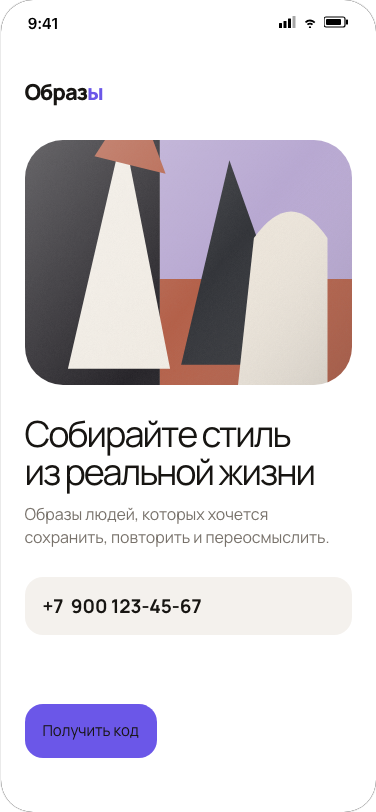
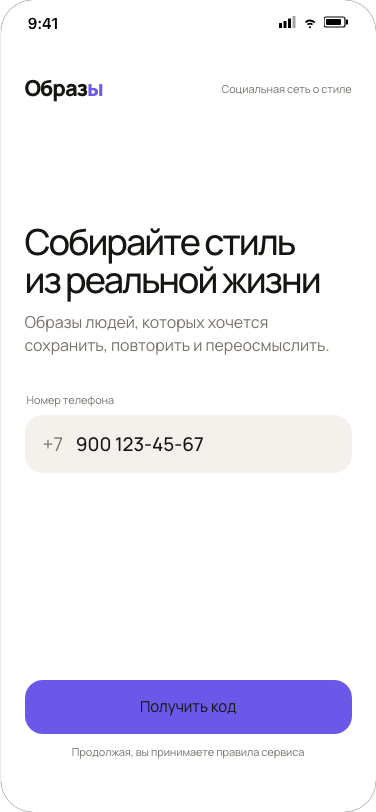
Simplify Looks login screen

diff --git a/platform/concepts/looks/styles.css b/platform/concepts/looks/styles.css
@@ -1,6 +1,6 @@
 :root{--lk-ink:#171512;--lk-muted:#77716a;--lk-soft:#f4f1ed;--lk-accent:#6b57e8;--lk-green:#4d7d61}
 .lk-editorial{padding:0 14px 105px}.lk-editorial-title{font:700 34px/1.05 Manrope;letter-spacing:-.055em;margin:8px 4px 18px}.lk-look{position:relative;height:430px;border-radius:28px;overflow:hidden;background:center/cover no-repeat;margin-bottom:14px}.lk-look.hero{background-image:url(assets/media/look-tailored.svg)}.lk-look.alt{height:270px;background-image:url(assets/media/look-color.svg)}.lk-look-meta{position:absolute;left:0;right:0;bottom:0;padding:70px 18px 18px;color:#fff;background:linear-gradient(transparent,rgba(12,10,16,.78))}.lk-look-meta h2{font-size:25px;letter-spacing:-.045em;margin:0}.lk-look-meta p{margin:5px 0 0;color:#eee}.lk-tag{position:absolute;padding:9px 11px;border-radius:14px;background:rgba(255,255,255,.92);font-size:11px;font-weight:750;box-shadow:0 6px 20px #1c172033}.lk-tag.one{left:14px;top:42%}.lk-tag.two{right:18px;top:65%}.lk-collections{display:grid;grid-template-columns:1.2fr .8fr;gap:10px;padding:0 16px 105px}.lk-collection{min-height:240px;border-radius:24px;background:center/cover no-repeat;position:relative;overflow:hidden}.lk-collection.tall{min-height:370px;background-image:url(assets/media/look-denim.svg)}.lk-collection.small{background-image:url(assets/media/look-knit.svg)}.lk-collection span{position:absolute;left:14px;bottom:14px;color:#fff;font-weight:800;font-size:17px}.lk-fashion-camera{height:360px;margin:0 16px;border-radius:28px;background:url(assets/media/look-denim.svg) center/cover;position:relative}.lk-fashion-camera:after{content:'Силуэт в кадре';position:absolute;left:16px;bottom:16px;padding:8px 11px;border-radius:12px;background:#fff;font-size:11px;font-weight:700}.lk-masonry{columns:2;column-gap:8px;margin-top:20px}.lk-tile{break-inside:avoid;height:190px;border-radius:16px;background:center/cover;margin-bottom:8px}.lk-tile:nth-child(1){height:250px;background-image:url(assets/media/look-tailored.svg)}.lk-tile:nth-child(2){background-image:url(assets/media/look-color.svg)}.lk-tile:nth-child(3){background-image:url(assets/media/look-denim.svg)}.lk-tile:nth-child(4){height:250px;background-image:url(assets/media/look-knit.svg)}
 .lk{background:#fff;color:var(--lk-ink);font-family:Manrope,-apple-system,sans-serif}.lk *{box-sizing:border-box}.lk button{appearance:none;border:0;font:inherit;color:inherit}.lk button:not(.lk-primary):not(.lk-secondary):not(.lk-card){background:transparent}.lk .body-scroll{scrollbar-width:none}.lk-safe{height:calc(var(--safe-top) + 8px);flex:none}.lk-head{height:54px;padding:0 18px;display:flex;align-items:center;justify-content:space-between}.lk-head h1{margin:0;font-size:25px;letter-spacing:-.04em}.lk-logo{font-size:22px;font-weight:800;letter-spacing:-.05em}.lk-logo i{color:var(--lk-accent);font-style:normal}.lk-hit{width:44px;height:44px;display:grid;place-items:center}.lk-icon{width:23px;height:23px;fill:none;stroke:currentColor;stroke-width:2;stroke-linecap:round;stroke-linejoin:round}.lk-tabs{background:rgba(255,255,255,.96);border-top:0;box-shadow:0 -8px 22px rgba(29,23,18,.045)}.lk-tabs .tab{color:#8b8580}.lk-tabs .tab.is-on{color:var(--lk-accent)}.lk-tabs .ico{width:24px;height:24px}.lk-tabs svg{width:23px;height:23px;fill:none;stroke:currentColor;stroke-width:2}
-.lk-auth{min-height:100%;padding:calc(var(--safe-top) + 28px) 24px calc(var(--safe-bottom) + 20px);display:flex;flex-direction:column}.lk-auth-art{height:245px;border-radius:38px;background:var(--lk-soft) url(assets/media/login-collage.svg) center/cover no-repeat;margin:30px 0}.lk-auth h1{font-size:36px;line-height:1.05;letter-spacing:-.055em;margin:0}.lk-auth p{font-size:16px;line-height:23px;color:var(--lk-muted);margin:12px 0 0}.lk-field{margin-top:28px;height:58px;border-radius:18px;background:var(--lk-soft);display:flex;align-items:center;padding:0 18px;font-size:19px;font-weight:650}.lk-auth-foot{margin-top:auto}.lk-primary,.lk-secondary{min-height:54px;border-radius:18px;display:flex;align-items:center;justify-content:center;font-weight:750;padding:0 18px}.lk-primary{background:var(--lk-accent);color:#fff}.lk-secondary{background:var(--lk-soft)}.lk-otp{display:flex;gap:10px;margin:34px 0}.lk-otp span{width:54px;height:62px;border-radius:17px;background:var(--lk-soft);display:grid;place-items:center;font:600 25px IBM Plex Mono}
+.lk-auth{min-height:100%;padding:calc(var(--safe-top) + 20px) 24px calc(var(--safe-bottom) + 18px);display:flex;flex-direction:column}.lk-auth-head{height:44px;display:flex;align-items:center;justify-content:space-between}.lk-auth-head>span{font-size:11px;color:var(--lk-muted)}.lk-auth-intro{margin-top:112px}.lk-auth h1{font-size:36px;line-height:1.05;letter-spacing:-.055em;margin:0;font-weight:500}.lk-auth p{font-size:16px;line-height:23px;color:var(--lk-muted);margin:12px 0 0}.lk-auth-form{margin-top:34px}.lk-auth-form label{display:block;margin:0 0 7px 2px;font-size:11px;color:var(--lk-muted)}.lk-field{height:58px;border-radius:18px;background:var(--lk-soft);display:flex;align-items:center;gap:13px;padding:0 18px;font-size:19px}.lk-field span{color:var(--lk-muted)}.lk-field b{font-weight:500}.lk-auth-foot{margin-top:auto}.lk-auth-foot .lk-primary{width:100%}.lk-auth-note{text-align:center;font-size:11px!important;line-height:16px!important;margin:10px 0 0!important}.lk-primary,.lk-secondary{min-height:54px;border-radius:18px;display:flex;align-items:center;justify-content:center;font-weight:500;padding:0 18px}.lk-primary{background:var(--lk-accent);color:#fff}.lk-secondary{background:var(--lk-soft)}.lk-otp{display:flex;gap:10px;margin:34px 0}.lk-otp span{width:54px;height:62px;border-radius:17px;background:var(--lk-soft);display:grid;place-items:center;font:600 25px IBM Plex Mono}
 .lk-hero{height:250px;background:var(--lk-soft) center/cover no-repeat;position:relative}.lk-hero.dog{background-image:url(assets/media/look-tailored.svg)}.lk-back{position:absolute;top:10px;left:12px;width:44px;height:44px;border-radius:50%;background:rgba(255,255,255,.9);display:grid;place-items:center}.lk-profile{padding:18px 20px 110px}.lk-profile h1{font-size:30px;margin:0;letter-spacing:-.045em}.lk-profile p{color:var(--lk-muted);line-height:21px}.lk-stats{display:flex;gap:26px;margin:18px 0}.lk-stats strong{display:block;font-size:20px}.lk-stats span{font-size:11px;color:var(--lk-muted)}.lk-list{padding:18px 18px 110px}.lk-card{padding:18px;border-radius:22px;background:var(--lk-soft);margin-bottom:12px}.lk-card h2,.lk-card h3{margin:0}.lk-card p{margin:7px 0 0;color:var(--lk-muted);line-height:19px}.lk-row{display:flex;align-items:center;gap:13px;padding:12px 0}.lk-row+.lk-row{margin-top:2px}.lk-row-art{width:50px;height:50px;border-radius:17px;background:#ece6df;display:grid;place-items:center;font-size:23px;flex:none}.lk-row-copy{min-width:0;flex:1}.lk-row-copy strong{display:block}.lk-row-copy span{font-size:12px;color:var(--lk-muted)}.lk-fallback{padding:12px 14px;border-radius:16px;background:#f1efff;color:#4f3cb5;font-size:13px;margin-bottom:12px}.lk-camera{background:#171512;color:#fff}.lk-view{height:100%;background:radial-gradient(circle at 50% 42%,#66554a,#171512 68%);display:flex;align-items:flex-end;justify-content:center;padding-bottom:calc(var(--safe-bottom) + 30px)}.lk-shutter{width:74px;height:74px;border-radius:50%;background:#fff;box-shadow:inset 0 0 0 5px #171512,0 0 0 3px #fff}.lk-gallery{padding:18px;display:grid;grid-template-columns:repeat(3,1fr);gap:4px}.lk-gallery div{aspect-ratio:1;border-radius:10px;background:#e6e0d8}.lk-chat{padding:8px 16px 98px;display:flex;flex-direction:column;gap:9px}.lk-bubble{max-width:78%;padding:11px 14px;border-radius:18px;background:var(--lk-soft);font-size:14px;line-height:19px}.lk-bubble.me{margin-left:auto;background:#e6e0ff}.lk-voice{padding:70px 25px;text-align:center}.lk-wave{height:110px;margin:40px 0;background:repeating-linear-gradient(90deg,var(--lk-accent) 0 3px,transparent 3px 9px);mask:linear-gradient(transparent 5%,#000 30% 70%,transparent 95%)}.lk-settings{padding:4px 18px 100px}.lk-setting{min-height:58px;display:flex;align-items:center;gap:12px}.lk-setting .lk-icon{color:var(--lk-accent)}.lk-setting span{flex:1;font-size:14px;font-weight:650}.lk-system{padding:34px 22px}.lk-system-mark{width:76px;height:76px;border-radius:24px;background:#e8e4ff;color:var(--lk-accent);display:grid;place-items:center;margin-bottom:26px}.lk-system h1{font-size:31px;letter-spacing:-.045em}.lk-system .lk-card{margin-top:24px}
 .lk-actions{display:flex;gap:4px}.lk-composebar{position:absolute;bottom:calc(var(--safe-bottom) + 8px);left:12px;right:12px;height:52px;border-radius:20px;background:var(--lk-soft);display:flex;align-items:center;padding:0 8px 0 16px;color:var(--lk-muted)}

diff --git a/platform/concepts/looks/screens/phone.html b/platform/concepts/looks/screens/phone.html
@@ -1,1 +1,1 @@
-<div class="screen lk is-on" id="scr-phone"><div class="lk-auth"><div class="lk-logo">Образ<i>ы</i></div><div class="lk-auth-art"></div><h1>Собирайте стиль<br>из реальной жизни</h1><p>Образы людей, которых хочется сохранить, повторить и переосмыслить.</p><div class="lk-field">+7&nbsp;&nbsp;900 123-45-67</div><div class="lk-auth-foot"><button class="lk-primary block" data-go="code">Получить код</button></div></div></div>
+<div class="screen lk is-on" id="scr-phone"><div class="lk-auth"><header class="lk-auth-head"><div class="lk-logo">Образ<i>ы</i></div><span>Социальная сеть о стиле</span></header><div class="lk-auth-intro"><h1>Собирайте стиль<br>из реальной жизни</h1><p>Образы людей, которых хочется сохранить, повторить и переосмыслить.</p></div><div class="lk-auth-form"><label>Номер телефона</label><div class="lk-field"><span>+7</span><b>900 123-45-67</b></div></div><div class="lk-auth-foot"><button class="lk-primary block" data-go="code">Получить код</button><p class="lk-auth-note">Продолжая, вы принимаете правила сервиса</p></div></div></div>
